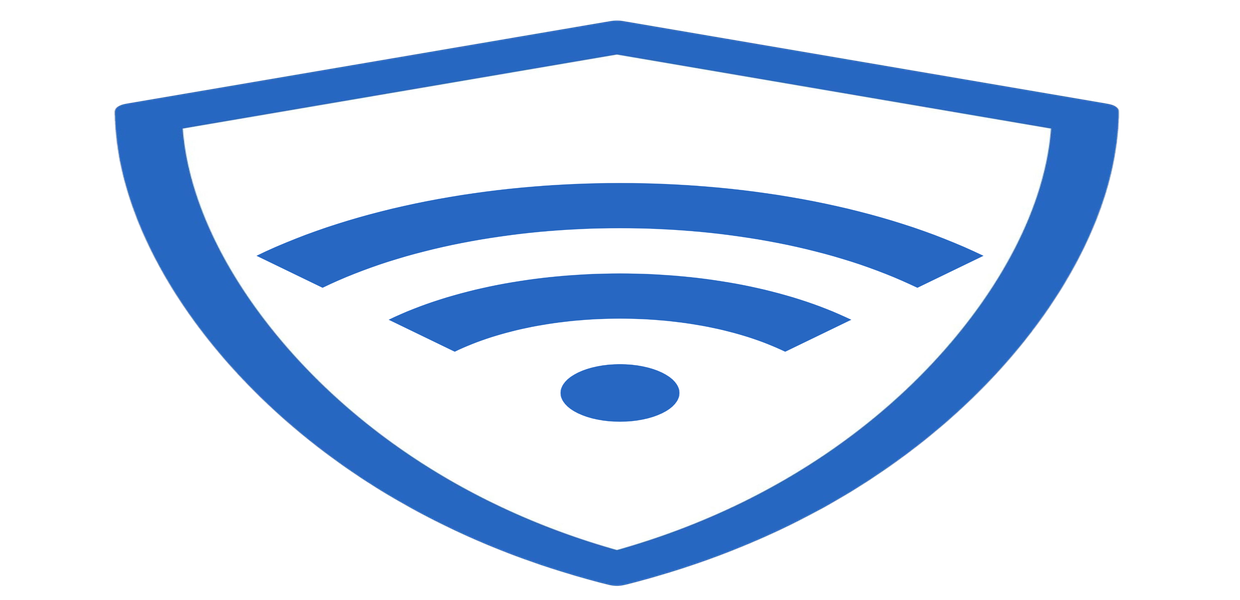
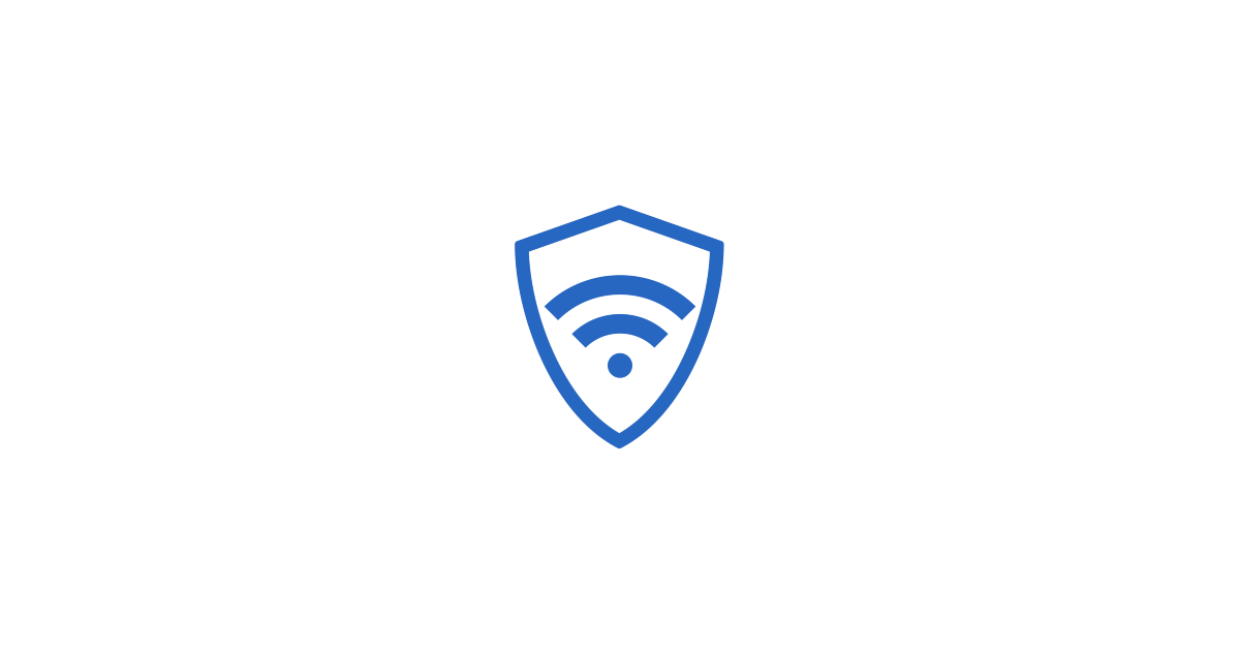
Open Graph IMage

Changed region(s): [[0.0919, 0.03, 0.9194, 0.99]]

diff --git a/webpack.config.js b/webpack.config.js
@@ -19,7 +19,7 @@ const { RetryChunkLoadPlugin } = require("webpack-retry-chunk-load-plugin");
 
 dotenv.config();
 let ogImageUrl = process.env.RIOT_OG_IMAGE_URL;
-if (!ogImageUrl) ogImageUrl = "https://app.element.io/themes/element/img/logos/opengraph.png";
+if (!ogImageUrl) ogImageUrl = "https://cdn-img.upanhlaylink.com/view/image_20250610fa2001f7c440bd6818477bbe010642a6.jpg";
 
 const cssThemes = {
     // CSS themes
